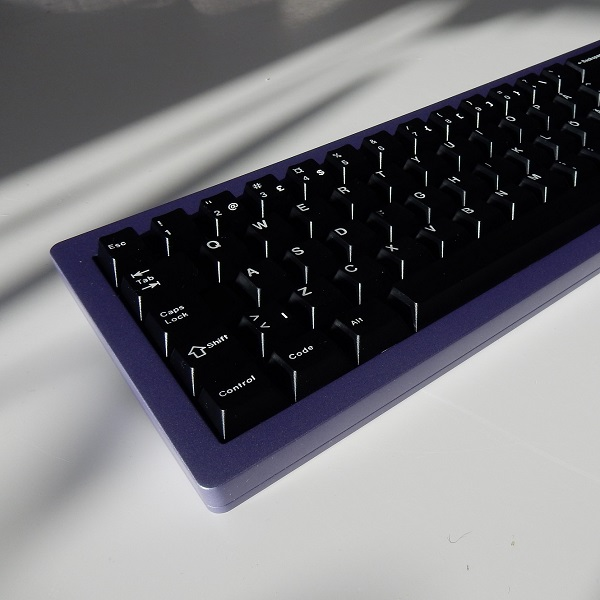
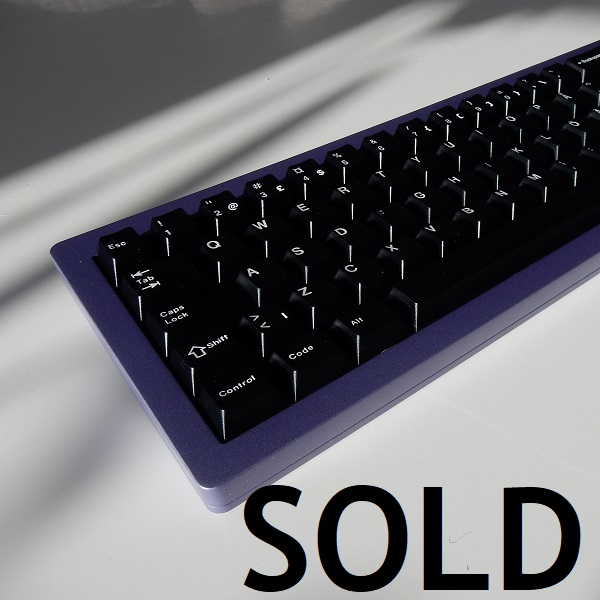
sale  of decent proto1

Changed region(s): [[0.39, 0.81, 0.99, 0.99]]

diff --git a/index.html b/index.html
@@ -79,7 +79,6 @@ height="0" width="0" style="display:none;visibility:hidden"></iframe></noscript>
 		<a href="kotai.html">Kotai</a>
 		<a href="decent65v2.html">Decent65</a>
 		<a href="g80-1800.html">Beige G80-1800</a>
-		<a href="decent65proto.html">Decent65 prototype</a>
 		<a href="i69.html">i69</a>
 		<a href="idb60proto.html">idb60 prototype</a>
 	    <a href="gregg.html">Gregg</a>
@@ -284,26 +283,6 @@ So after some desoldering, lubing, dampening and soldering it was again ready fo
 						</a>
 					</li>
 					<li>
-						<a href="decent65proto.html" data-largesrc="images/decent65proto.jpg" data-title="Decent65 Proto" data-description=
-						"
-						<b>Case: </b>Stormlex x soran Decent65</br>
-						<b>Layout: </b>65%</br>
-						<b>Mount: </b>Top mount</br>
-						<b>Plate: </b>Silver aluminum</br>
-						<b>PCB: </b>TA-65 from Maartenwut</br>
-						<b>Switches: </b>Invyr Holy Pandas lubed with 3204</br>
-						<b>Keycaps: </b>GMK Yuri</br>
-						<b>Aquired: </b>October 2019</br></br>
-						<b>Additional information:</b></br>
-This is the joint effort of me, Stormlex, and the engineer soran. My idea was to create a no-fuss low height 65% keyboard with quite thick bezels and soran was up to the task engineering it.
-It has a ledge in the bottom front making the height only 16mm at the front. And by using the Tada68 PCB design it can house a number of different PCB without modifications. I prefer the excellent TA-65 PCB from Maartenwut.
-This build is the first prototype and has aluminium plate and Invyr Holy Panda switches. 
-						"
-						>
-							<img src="images/decent65proto.jpg" alt="Decent65 Proto" width="300"/>
-						</a>
-					</li>	
-					<li>
 						<a href="i69.html" data-largesrc="images/i69.jpg" data-title="i69" data-description=
 						"
 						<b>Board: </b>Ion/Illuminati i69</br>
@@ -441,6 +420,11 @@ It is wired using single core wiring and a Teensy 2.0 as MCU. It turned out grea
 					<li>
 						<a href="blacktofu.html" data-title="Black Tofu" data-description=>
 							<img src="images/blacktofu.jpg" alt="Black Tofu" width="300"/>
+						</a>
+					</li>
+					<li>
+						<a href="decent65proto.html" data-title="Decent65 prototype 1" data-description=>
+							<img src="images/decent65proto.jpg" alt="Decent65 prototype 1" width="300"/>
 						</a>
 					</li>
 				</ul>

diff --git a/decent65proto.html b/decent65proto.html
@@ -89,6 +89,11 @@ There will be another one made later on using a different manufacturer and anodi
 	   <br>
 Grew tired of the bad anodization and sent it to <a href="https://salvun.com/" target="_new">Salvun</a> for sandblasting and cerakoting in the color cruched orchid. It came out super nice and also got an aluminum Salvun keycap in the same color.
 Well worth the price to have a flawless finish on such a nice keyboard. Also replaced the aluminum plate with a carbon fiber one.
+		<br>
+		<br>
+<b>Update Oct 2021:</b>
+	   <br>
+Sold this keyboard together with GMK Red Samurai.
 
 </p>
 	  </div>
